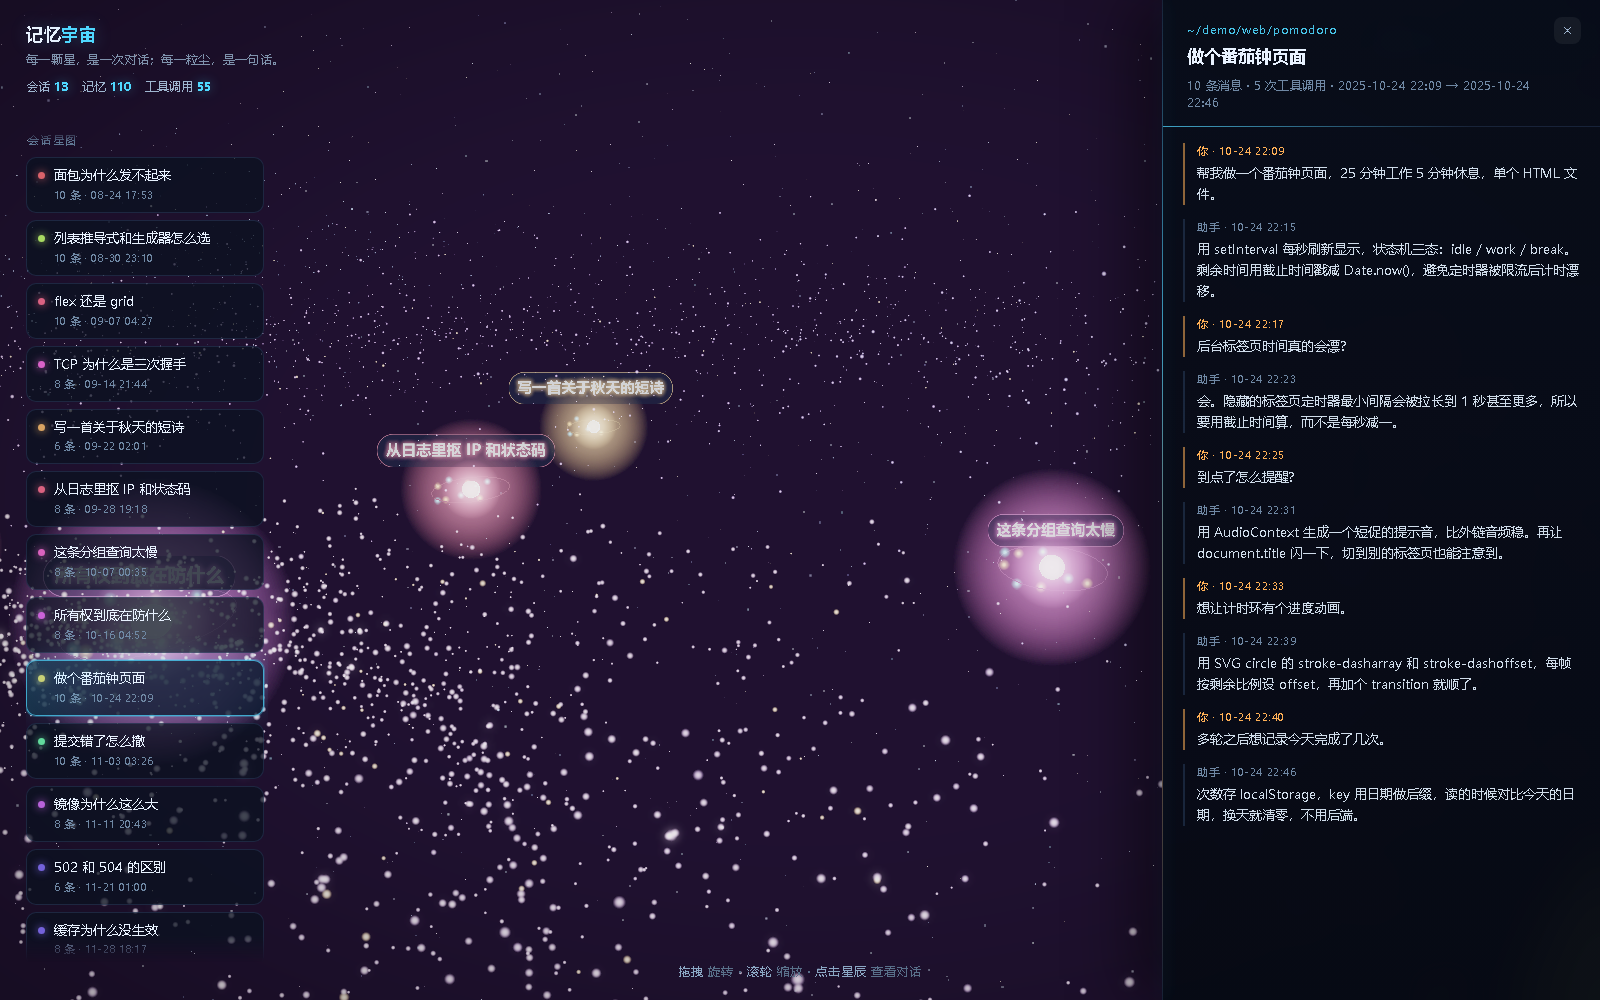
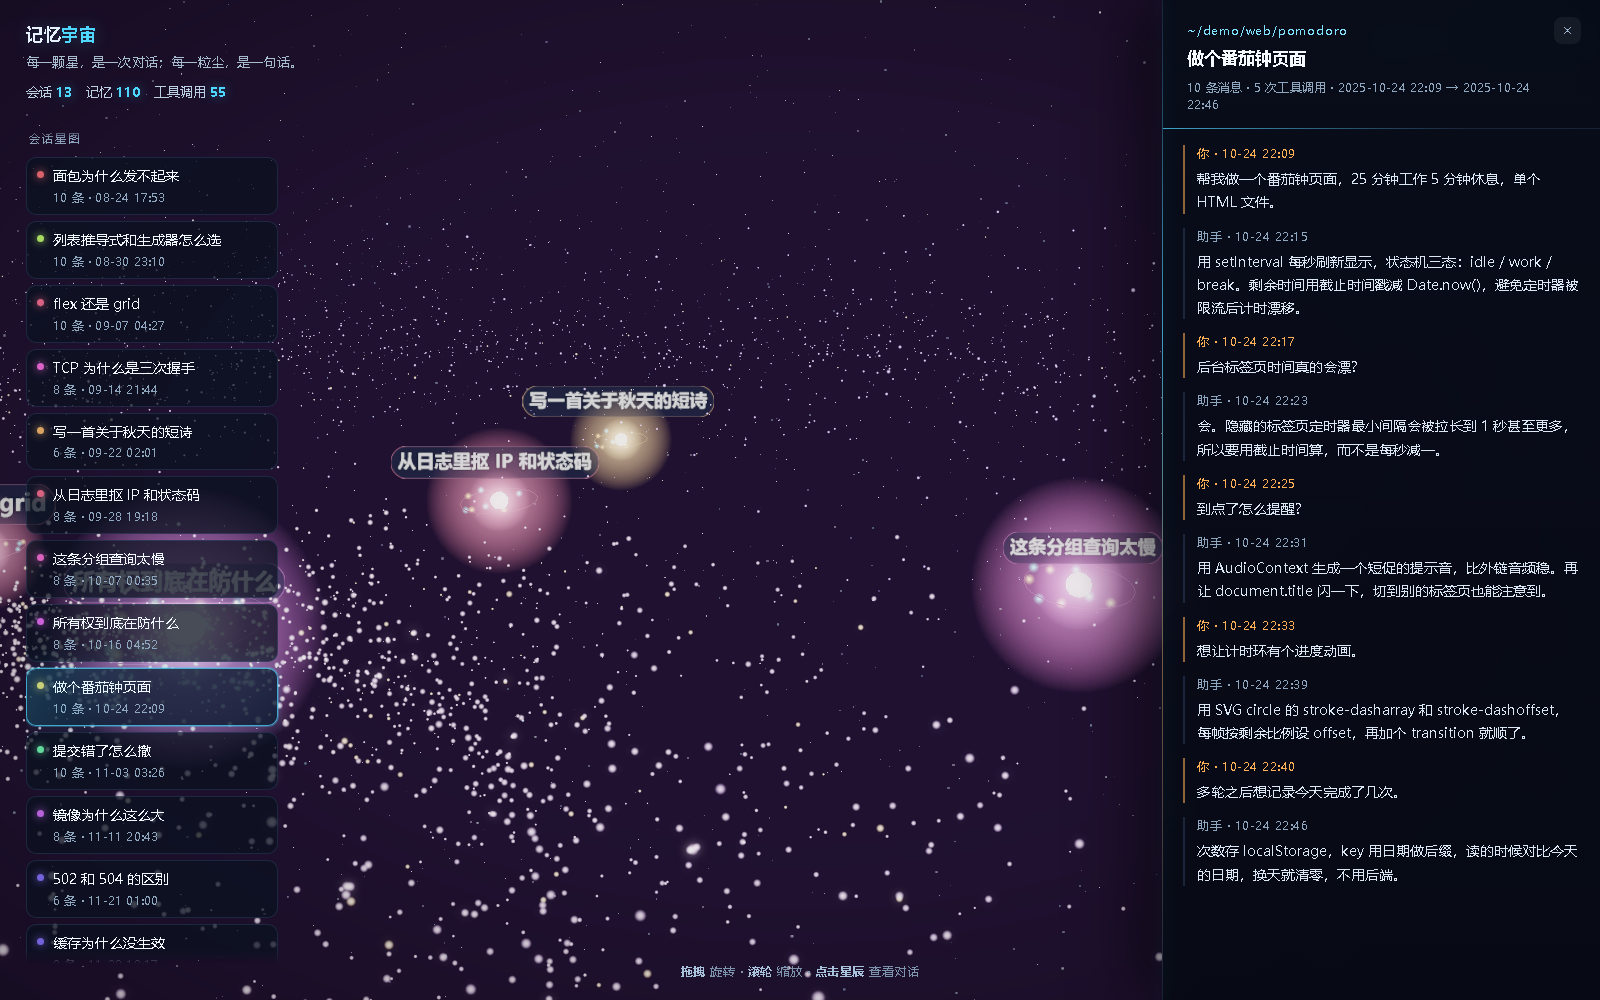
fix: sharpen all text - bigger label textures with mipmaps, no glow blur, larger and higher-contrast UI type

diff --git a/docs/index.html b/docs/index.html
@@ -21,7 +21,8 @@
 *{box-sizing:border-box;}
 html,body{margin:0;height:100%;overflow:hidden;background:var(--bg);color:var(--fg);
   font-family:"Microsoft YaHei","PingFang SC",system-ui,sans-serif;
-  -webkit-font-smoothing:antialiased;}
+  /* Windows 上 antialiased 会关掉次像素渲染，字又细又灰；用默认渲染最锐 */
+  -webkit-font-smoothing:auto;text-rendering:optimizeLegibility;}
 canvas{display:block;cursor:grab;opacity:0;transition:opacity 1.1s ease .12s;}
 body.ready canvas{opacity:1;}
 canvas:active{cursor:grabbing;}
@@ -62,22 +63,22 @@ canvas:active{cursor:grabbing;}
 .brand h1{margin:0;font-size:17px;font-weight:600;letter-spacing:.6px;
   text-shadow:0 0 18px rgba(79,216,255,.28);}
 .brand h1 b{color:var(--accent);}
-.brand p{margin:5px 0 0;font-size:12px;color:var(--dim);letter-spacing:.3px;}
-.brand .stat{margin-top:10px;font-size:12px;color:#9fb6d0;display:flex;gap:14px;}
+.brand p{margin:6px 0 0;font-size:13px;color:#a8bccf;letter-spacing:.2px;}
+.brand .stat{margin-top:11px;font-size:13px;color:#bcd0e4;display:flex;gap:14px;}
 .brand .stat i{font-style:normal;color:var(--accent);font-weight:600;
   text-shadow:0 0 12px rgba(79,216,255,.45);}
 
 /* ---------- 左侧会话列表 ---------- */
-.side{position:absolute;top:130px;left:26px;width:242px;max-height:calc(100% - 168px);
-  overflow-y:auto;pointer-events:auto;padding:2px 4px 2px 0;
-  mask-image:linear-gradient(180deg,transparent,#000 12px,#000 calc(100% - 26px),transparent);}
+.side{position:absolute;top:128px;left:26px;width:256px;max-height:calc(100% - 164px);
+  overflow-y:auto;pointer-events:auto;padding:2px 4px 16px 0;
+  mask-image:linear-gradient(180deg,transparent,#000 10px,#000 calc(100% - 14px),transparent);}
 .side::-webkit-scrollbar{width:4px;}
 .side::-webkit-scrollbar-thumb{background:rgba(120,180,255,.32);border-radius:2px;}
 .side::-webkit-scrollbar-track{background:transparent;}
-.side .hint{font-size:11px;color:#5f7793;margin:0 0 9px 2px;letter-spacing:1.4px;}
+.side .hint{font-size:12px;color:#8ba2ba;margin:0 0 10px 2px;letter-spacing:1.2px;}
 
-.item{position:relative;display:flex;gap:9px;align-items:flex-start;padding:9px 11px;
-  margin-bottom:7px;border:1px solid var(--line);border-radius:10px;
+.item{position:relative;display:flex;gap:9px;align-items:flex-start;padding:8px 10px;
+  margin-bottom:6px;border:1px solid var(--line);border-radius:10px;
   background:var(--glass);cursor:pointer;backdrop-filter:blur(8px);
   transition:transform .38s var(--spring),border-color .3s,box-shadow .35s,opacity .3s,background .3s;}
 .item::before{content:"";position:absolute;inset:0;border-radius:10px;pointer-events:none;
@@ -91,9 +92,9 @@ canvas:active{cursor:grabbing;}
 .item.on::before{opacity:1;}
 .item .dot{width:7px;height:7px;border-radius:50%;margin-top:5px;flex:0 0 auto;
   background:var(--accent);box-shadow:0 0 9px currentColor;}
-.item .t{font-size:12.5px;line-height:1.35;overflow:hidden;text-overflow:ellipsis;
+.item .t{font-size:13.5px;line-height:1.4;color:#f2f8ff;overflow:hidden;text-overflow:ellipsis;
   display:-webkit-box;-webkit-line-clamp:2;-webkit-box-orient:vertical;}
-.item .m{font-size:10.5px;color:#6f88a4;margin-top:3px;letter-spacing:.3px;}
+.item .m{font-size:11.5px;color:#8fa6bf;margin-top:4px;letter-spacing:.2px;}
 
 /* ---------- 右侧消息面板 ---------- */
 .panel{position:absolute;top:0;right:0;width:min(438px,42vw);height:100%;
@@ -109,10 +110,10 @@ canvas:active{cursor:grabbing;}
 .panel .head{position:relative;padding:22px 56px 15px 24px;border-bottom:1px solid var(--line);}
 .panel .head::after{content:"";position:absolute;left:0;right:0;bottom:-1px;height:1px;
   background:linear-gradient(90deg,rgba(79,216,255,.7),transparent 70%);}
-.panel .head .proj{font-size:11px;color:var(--accent);letter-spacing:1px;opacity:.9;
+.panel .head .proj{font-size:11.5px;color:#7fe2ff;letter-spacing:.8px;opacity:1;
   white-space:nowrap;overflow:hidden;text-overflow:ellipsis;}
-.panel .head h2{margin:7px 0 0;font-size:16.5px;font-weight:600;line-height:1.42;}
-.panel .head .meta{margin-top:9px;font-size:11.5px;color:#6f88a4;letter-spacing:.2px;}
+.panel .head h2{margin:7px 0 0;font-size:17px;font-weight:600;line-height:1.42;color:#f4faff;}
+.panel .head .meta{margin-top:9px;font-size:12px;color:#8fa6bf;letter-spacing:.2px;}
 .panel .close{position:absolute;top:17px;right:19px;width:27px;height:27px;border:0;
   z-index:3;
   border-radius:8px;background:rgba(255,255,255,.06);color:#9fb6d0;font-size:15px;
@@ -126,9 +127,9 @@ canvas:active{cursor:grabbing;}
   animation:msgIn .5s var(--spring) both;animation-delay:var(--d,0ms);}
 .msg.u{border-left-color:rgba(255,176,86,.55);}
 @keyframes msgIn{from{opacity:0;transform:translateY(9px);}to{opacity:1;transform:none;}}
-.msg .who{font-size:10.5px;color:#6f88a4;letter-spacing:.6px;margin-bottom:4px;}
+.msg .who{font-size:11.5px;color:#8fa6bf;letter-spacing:.5px;margin-bottom:5px;}
 .msg.u .who{color:var(--warm);}
-.msg .tx{font-size:12.8px;line-height:1.64;color:#cfdcea;white-space:pre-wrap;
+.msg .tx{font-size:13.5px;line-height:1.72;color:#dbe7f4;white-space:pre-wrap;
   word-break:break-word;}
 .msg .tx.clip{display:-webkit-box;-webkit-line-clamp:4;-webkit-box-orient:vertical;overflow:hidden;}
 .msg .more{margin-top:5px;font-size:11px;color:var(--accent);cursor:pointer;opacity:.8;}
@@ -137,17 +138,17 @@ canvas:active{cursor:grabbing;}
 
 /* ---------- 底部提示 ---------- */
 .tips{position:absolute;left:50%;bottom:20px;transform:translateX(-50%);
-  font-size:11.5px;color:#59708a;letter-spacing:.7px;white-space:nowrap;}
-.tips b{color:#8ba7c4;font-weight:500;}
+  font-size:12px;color:#7d93ab;letter-spacing:.5px;white-space:nowrap;}
+.tips b{color:#a9c2dc;font-weight:600;}
 
 /* ---------- 搜索 ---------- */
 .search{position:absolute;top:24px;right:26px;pointer-events:auto;display:flex;gap:8px;}
 .search input{width:214px;padding:8px 12px;border-radius:10px;border:1px solid var(--line);
-  background:rgba(10,18,32,.8);color:var(--fg);font-size:12.5px;outline:none;
+  background:rgba(10,18,32,.8);color:var(--fg);font-size:13px;outline:none;
   backdrop-filter:blur(8px);transition:border-color .3s,box-shadow .3s,width .4s var(--spring);}
 .search input:focus{border-color:rgba(79,216,255,.6);width:250px;
   box-shadow:0 0 0 3px rgba(79,216,255,.10),0 0 24px rgba(79,216,255,.12);}
-.search input::placeholder{color:#5f7793;}
+.search input::placeholder{color:#8fa6bf;}
 
 /* ---------- 移动端 ---------- */
 .menu{display:none;position:absolute;top:24px;left:26px;pointer-events:auto;
@@ -336,7 +337,9 @@ canvas:active{cursor:grabbing;}
   }
 
   function labelTexture(text, color) {
-    const fs = 44, pad = 26;
+    // 字号比原来大、留白比原来小：同一个胶囊高度里字更大；
+    // 文字不再用彩色 shadowBlur（那是糊的主因），改成深色描边压背景
+    const fs = 56, pad = 22;
     const probe = document.createElement('canvas').getContext('2d');
     probe.font = '600 ' + fs + 'px "Microsoft YaHei",sans-serif';
     const tw = Math.ceil(probe.measureText(text).width);
@@ -354,10 +357,10 @@ canvas:active{cursor:grabbing;}
     g.arcTo(w, c.height, w - r, c.height, r); g.lineTo(r, c.height);
     g.arcTo(0, c.height, 0, c.height - r, r); g.lineTo(0, r);
     g.arcTo(0, 0, r, 0, r); g.closePath();
-    g.fillStyle = 'rgba(4,9,18,.78)';
+    g.fillStyle = 'rgba(4,9,18,.82)';
     g.fill();
     g.strokeStyle = color;
-    g.globalAlpha = 0.55;
+    g.globalAlpha = 0.6;
     g.lineWidth = 2;
     g.stroke();
     g.globalAlpha = 1;
@@ -365,13 +368,19 @@ canvas:active{cursor:grabbing;}
     g.font = '600 ' + fs + 'px "Microsoft YaHei",sans-serif';
     g.textAlign = 'center';
     g.textBaseline = 'middle';
-    g.fillStyle = '#eaf4ff';
-    g.shadowColor = color;
-    g.shadowBlur = 14;
+    g.lineJoin = 'round';
+    g.strokeStyle = 'rgba(2,5,11,.95)';
+    g.lineWidth = 7;
+    g.strokeText(text, w / 2, c.height / 2 + 1);
+    g.fillStyle = '#f6fbff';
     g.fillText(text, w / 2, c.height / 2 + 1);
 
     const tex = new THREE.CanvasTexture(c);
-    tex.minFilter = THREE.LinearFilter;
+    // 纹理比屏幕上显示的像素大好几倍，必须开 mipmap + 各向异性，否则缩小时必然发糊
+    tex.generateMipmaps = true;
+    tex.minFilter = THREE.LinearMipmapLinearFilter;
+    tex.magFilter = THREE.LinearFilter;
+    if (renderer && renderer.capabilities) tex.anisotropy = renderer.capabilities.getMaxAnisotropy();
     return { tex: tex, aspect: c.width / c.height };
   }
 

diff --git a/web/style.css b/web/style.css
@@ -11,7 +11,8 @@
 *{box-sizing:border-box;}
 html,body{margin:0;height:100%;overflow:hidden;background:var(--bg);color:var(--fg);
   font-family:"Microsoft YaHei","PingFang SC",system-ui,sans-serif;
-  -webkit-font-smoothing:antialiased;}
+  /* Windows 上 antialiased 会关掉次像素渲染，字又细又灰；用默认渲染最锐 */
+  -webkit-font-smoothing:auto;text-rendering:optimizeLegibility;}
 canvas{display:block;cursor:grab;opacity:0;transition:opacity 1.1s ease .12s;}
 body.ready canvas{opacity:1;}
 canvas:active{cursor:grabbing;}
@@ -52,22 +53,22 @@ canvas:active{cursor:grabbing;}
 .brand h1{margin:0;font-size:17px;font-weight:600;letter-spacing:.6px;
   text-shadow:0 0 18px rgba(79,216,255,.28);}
 .brand h1 b{color:var(--accent);}
-.brand p{margin:5px 0 0;font-size:12px;color:var(--dim);letter-spacing:.3px;}
-.brand .stat{margin-top:10px;font-size:12px;color:#9fb6d0;display:flex;gap:14px;}
+.brand p{margin:6px 0 0;font-size:13px;color:#a8bccf;letter-spacing:.2px;}
+.brand .stat{margin-top:11px;font-size:13px;color:#bcd0e4;display:flex;gap:14px;}
 .brand .stat i{font-style:normal;color:var(--accent);font-weight:600;
   text-shadow:0 0 12px rgba(79,216,255,.45);}
 
 /* ---------- 左侧会话列表 ---------- */
-.side{position:absolute;top:130px;left:26px;width:242px;max-height:calc(100% - 168px);
-  overflow-y:auto;pointer-events:auto;padding:2px 4px 2px 0;
-  mask-image:linear-gradient(180deg,transparent,#000 12px,#000 calc(100% - 26px),transparent);}
+.side{position:absolute;top:128px;left:26px;width:256px;max-height:calc(100% - 164px);
+  overflow-y:auto;pointer-events:auto;padding:2px 4px 16px 0;
+  mask-image:linear-gradient(180deg,transparent,#000 10px,#000 calc(100% - 14px),transparent);}
 .side::-webkit-scrollbar{width:4px;}
 .side::-webkit-scrollbar-thumb{background:rgba(120,180,255,.32);border-radius:2px;}
 .side::-webkit-scrollbar-track{background:transparent;}
-.side .hint{font-size:11px;color:#5f7793;margin:0 0 9px 2px;letter-spacing:1.4px;}
+.side .hint{font-size:12px;color:#8ba2ba;margin:0 0 10px 2px;letter-spacing:1.2px;}
 
-.item{position:relative;display:flex;gap:9px;align-items:flex-start;padding:9px 11px;
-  margin-bottom:7px;border:1px solid var(--line);border-radius:10px;
+.item{position:relative;display:flex;gap:9px;align-items:flex-start;padding:8px 10px;
+  margin-bottom:6px;border:1px solid var(--line);border-radius:10px;
   background:var(--glass);cursor:pointer;backdrop-filter:blur(8px);
   transition:transform .38s var(--spring),border-color .3s,box-shadow .35s,opacity .3s,background .3s;}
 .item::before{content:"";position:absolute;inset:0;border-radius:10px;pointer-events:none;
@@ -81,9 +82,9 @@ canvas:active{cursor:grabbing;}
 .item.on::before{opacity:1;}
 .item .dot{width:7px;height:7px;border-radius:50%;margin-top:5px;flex:0 0 auto;
   background:var(--accent);box-shadow:0 0 9px currentColor;}
-.item .t{font-size:12.5px;line-height:1.35;overflow:hidden;text-overflow:ellipsis;
+.item .t{font-size:13.5px;line-height:1.4;color:#f2f8ff;overflow:hidden;text-overflow:ellipsis;
   display:-webkit-box;-webkit-line-clamp:2;-webkit-box-orient:vertical;}
-.item .m{font-size:10.5px;color:#6f88a4;margin-top:3px;letter-spacing:.3px;}
+.item .m{font-size:11.5px;color:#8fa6bf;margin-top:4px;letter-spacing:.2px;}
 
 /* ---------- 右侧消息面板 ---------- */
 .panel{position:absolute;top:0;right:0;width:min(438px,42vw);height:100%;
@@ -99,10 +100,10 @@ canvas:active{cursor:grabbing;}
 .panel .head{position:relative;padding:22px 56px 15px 24px;border-bottom:1px solid var(--line);}
 .panel .head::after{content:"";position:absolute;left:0;right:0;bottom:-1px;height:1px;
   background:linear-gradient(90deg,rgba(79,216,255,.7),transparent 70%);}
-.panel .head .proj{font-size:11px;color:var(--accent);letter-spacing:1px;opacity:.9;
+.panel .head .proj{font-size:11.5px;color:#7fe2ff;letter-spacing:.8px;opacity:1;
   white-space:nowrap;overflow:hidden;text-overflow:ellipsis;}
-.panel .head h2{margin:7px 0 0;font-size:16.5px;font-weight:600;line-height:1.42;}
-.panel .head .meta{margin-top:9px;font-size:11.5px;color:#6f88a4;letter-spacing:.2px;}
+.panel .head h2{margin:7px 0 0;font-size:17px;font-weight:600;line-height:1.42;color:#f4faff;}
+.panel .head .meta{margin-top:9px;font-size:12px;color:#8fa6bf;letter-spacing:.2px;}
 .panel .close{position:absolute;top:17px;right:19px;width:27px;height:27px;border:0;
   z-index:3;
   border-radius:8px;background:rgba(255,255,255,.06);color:#9fb6d0;font-size:15px;
@@ -116,9 +117,9 @@ canvas:active{cursor:grabbing;}
   animation:msgIn .5s var(--spring) both;animation-delay:var(--d,0ms);}
 .msg.u{border-left-color:rgba(255,176,86,.55);}
 @keyframes msgIn{from{opacity:0;transform:translateY(9px);}to{opacity:1;transform:none;}}
-.msg .who{font-size:10.5px;color:#6f88a4;letter-spacing:.6px;margin-bottom:4px;}
+.msg .who{font-size:11.5px;color:#8fa6bf;letter-spacing:.5px;margin-bottom:5px;}
 .msg.u .who{color:var(--warm);}
-.msg .tx{font-size:12.8px;line-height:1.64;color:#cfdcea;white-space:pre-wrap;
+.msg .tx{font-size:13.5px;line-height:1.72;color:#dbe7f4;white-space:pre-wrap;
   word-break:break-word;}
 .msg .tx.clip{display:-webkit-box;-webkit-line-clamp:4;-webkit-box-orient:vertical;overflow:hidden;}
 .msg .more{margin-top:5px;font-size:11px;color:var(--accent);cursor:pointer;opacity:.8;}
@@ -127,17 +128,17 @@ canvas:active{cursor:grabbing;}
 
 /* ---------- 底部提示 ---------- */
 .tips{position:absolute;left:50%;bottom:20px;transform:translateX(-50%);
-  font-size:11.5px;color:#59708a;letter-spacing:.7px;white-space:nowrap;}
-.tips b{color:#8ba7c4;font-weight:500;}
+  font-size:12px;color:#7d93ab;letter-spacing:.5px;white-space:nowrap;}
+.tips b{color:#a9c2dc;font-weight:600;}
 
 /* ---------- 搜索 ---------- */
 .search{position:absolute;top:24px;right:26px;pointer-events:auto;display:flex;gap:8px;}
 .search input{width:214px;padding:8px 12px;border-radius:10px;border:1px solid var(--line);
-  background:rgba(10,18,32,.8);color:var(--fg);font-size:12.5px;outline:none;
+  background:rgba(10,18,32,.8);color:var(--fg);font-size:13px;outline:none;
   backdrop-filter:blur(8px);transition:border-color .3s,box-shadow .3s,width .4s var(--spring);}
 .search input:focus{border-color:rgba(79,216,255,.6);width:250px;
   box-shadow:0 0 0 3px rgba(79,216,255,.10),0 0 24px rgba(79,216,255,.12);}
-.search input::placeholder{color:#5f7793;}
+.search input::placeholder{color:#8fa6bf;}
 
 /* ---------- 移动端 ---------- */
 .menu{display:none;position:absolute;top:24px;left:26px;pointer-events:auto;

diff --git a/web/app.js b/web/app.js
@@ -95,7 +95,9 @@
   }
 
   function labelTexture(text, color) {
-    const fs = 44, pad = 26;
+    // 字号比原来大、留白比原来小：同一个胶囊高度里字更大；
+    // 文字不再用彩色 shadowBlur（那是糊的主因），改成深色描边压背景
+    const fs = 56, pad = 22;
     const probe = document.createElement('canvas').getContext('2d');
     probe.font = '600 ' + fs + 'px "Microsoft YaHei",sans-serif';
     const tw = Math.ceil(probe.measureText(text).width);
@@ -113,10 +115,10 @@
     g.arcTo(w, c.height, w - r, c.height, r); g.lineTo(r, c.height);
     g.arcTo(0, c.height, 0, c.height - r, r); g.lineTo(0, r);
     g.arcTo(0, 0, r, 0, r); g.closePath();
-    g.fillStyle = 'rgba(4,9,18,.78)';
+    g.fillStyle = 'rgba(4,9,18,.82)';
     g.fill();
     g.strokeStyle = color;
-    g.globalAlpha = 0.55;
+    g.globalAlpha = 0.6;
     g.lineWidth = 2;
     g.stroke();
     g.globalAlpha = 1;
@@ -124,13 +126,19 @@
     g.font = '600 ' + fs + 'px "Microsoft YaHei",sans-serif';
     g.textAlign = 'center';
     g.textBaseline = 'middle';
-    g.fillStyle = '#eaf4ff';
-    g.shadowColor = color;
-    g.shadowBlur = 14;
+    g.lineJoin = 'round';
+    g.strokeStyle = 'rgba(2,5,11,.95)';
+    g.lineWidth = 7;
+    g.strokeText(text, w / 2, c.height / 2 + 1);
+    g.fillStyle = '#f6fbff';
     g.fillText(text, w / 2, c.height / 2 + 1);
 
     const tex = new THREE.CanvasTexture(c);
-    tex.minFilter = THREE.LinearFilter;
+    // 纹理比屏幕上显示的像素大好几倍，必须开 mipmap + 各向异性，否则缩小时必然发糊
+    tex.generateMipmaps = true;
+    tex.minFilter = THREE.LinearMipmapLinearFilter;
+    tex.magFilter = THREE.LinearFilter;
+    if (renderer && renderer.capabilities) tex.anisotropy = renderer.capabilities.getMaxAnisotropy();
     return { tex: tex, aspect: c.width / c.height };
   }
 
